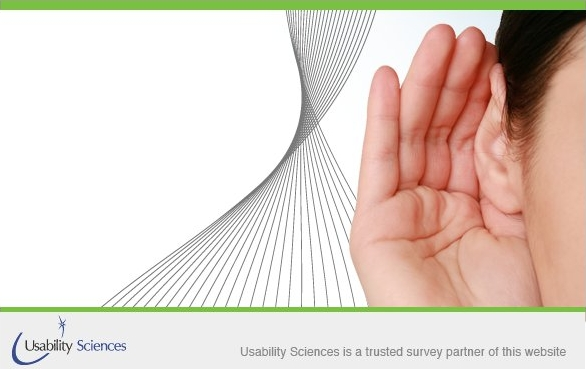
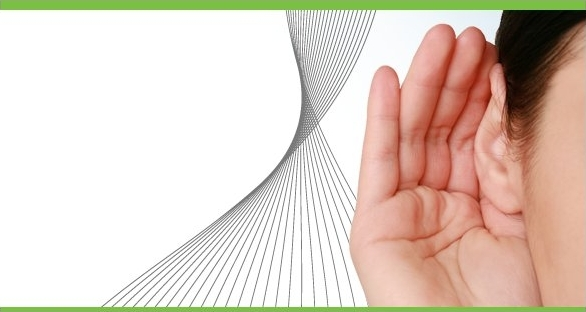
Removing footer from opt-in page.  Moved privacy policy link up next to No Thanks link.

Changed region(s): [[0.0, 0.0, 1.0, 1.0]]

diff --git a/webroot/css/popup.css b/webroot/css/popup.css
@@ -21,9 +21,9 @@
 	background: url('../img/popup_background.jpg') #fff no-repeat;
 	float: left;
 	width: 586px;
-	height: 369px;
+	height: 312px;
 	position: fixed;
-	top: 10%;
+	top: 15%;
 	left: 50%;
 	margin: 0 0 0 -300px;
 	z-index: 100;
